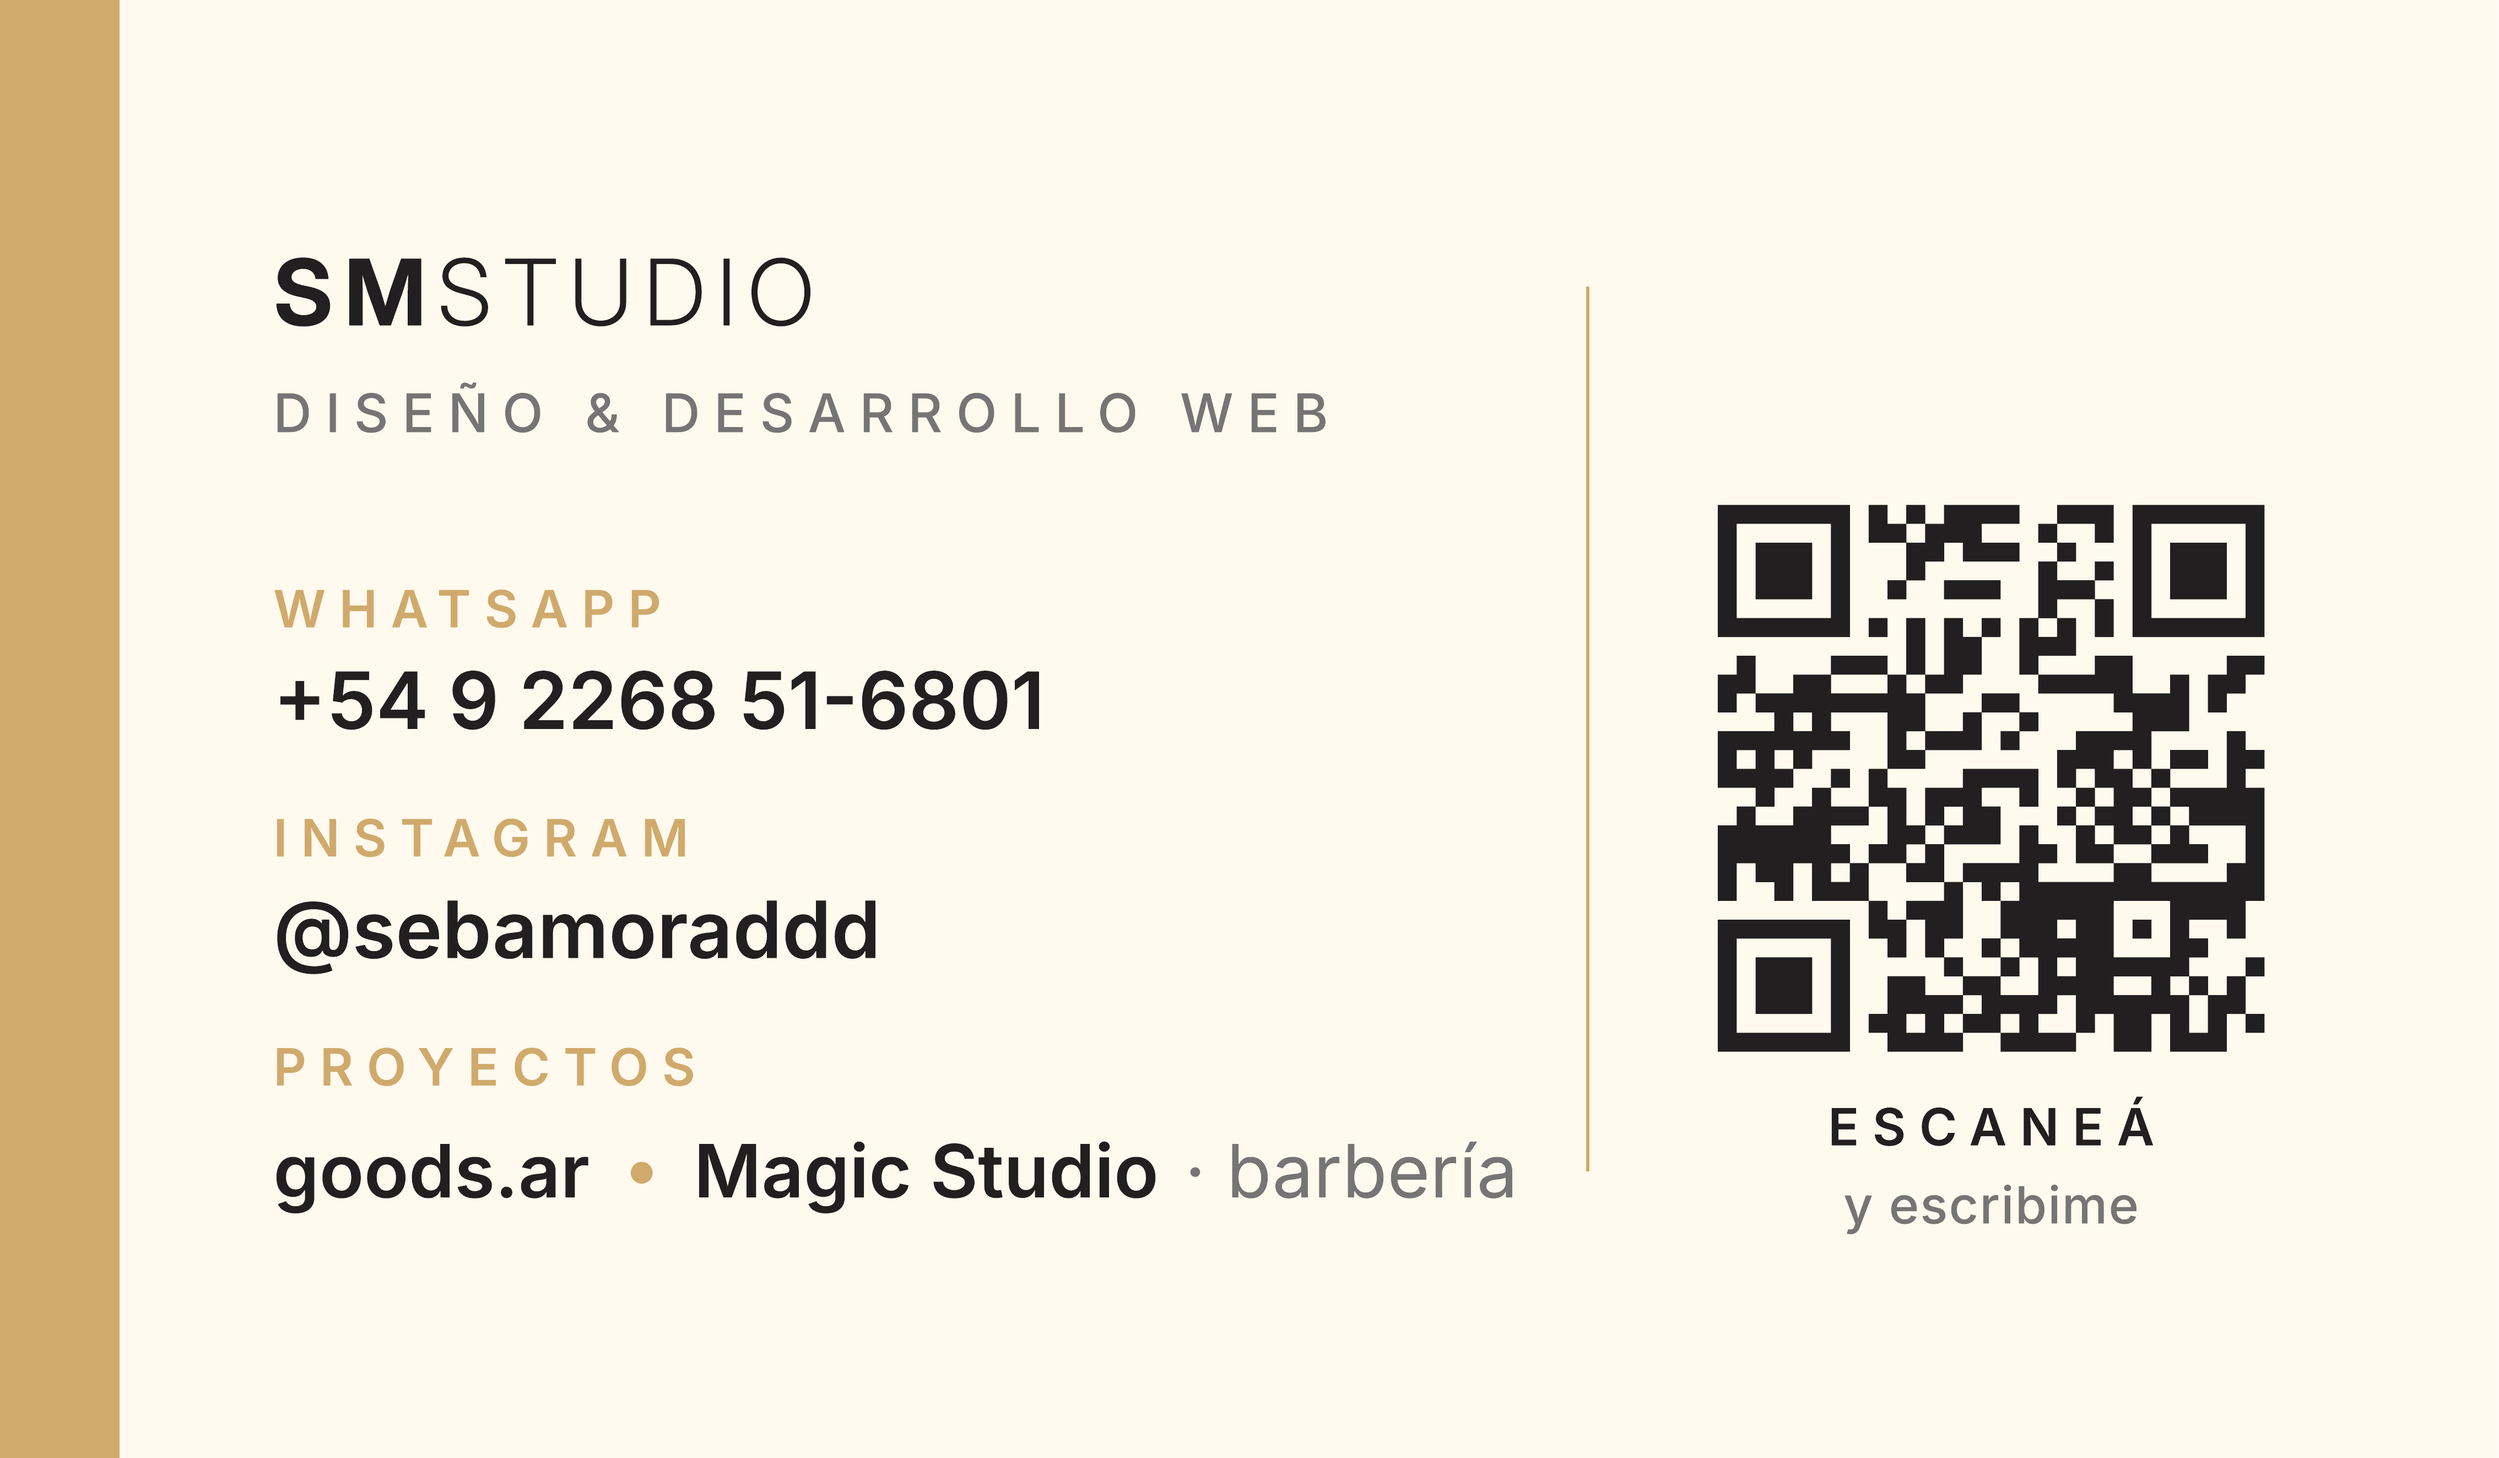
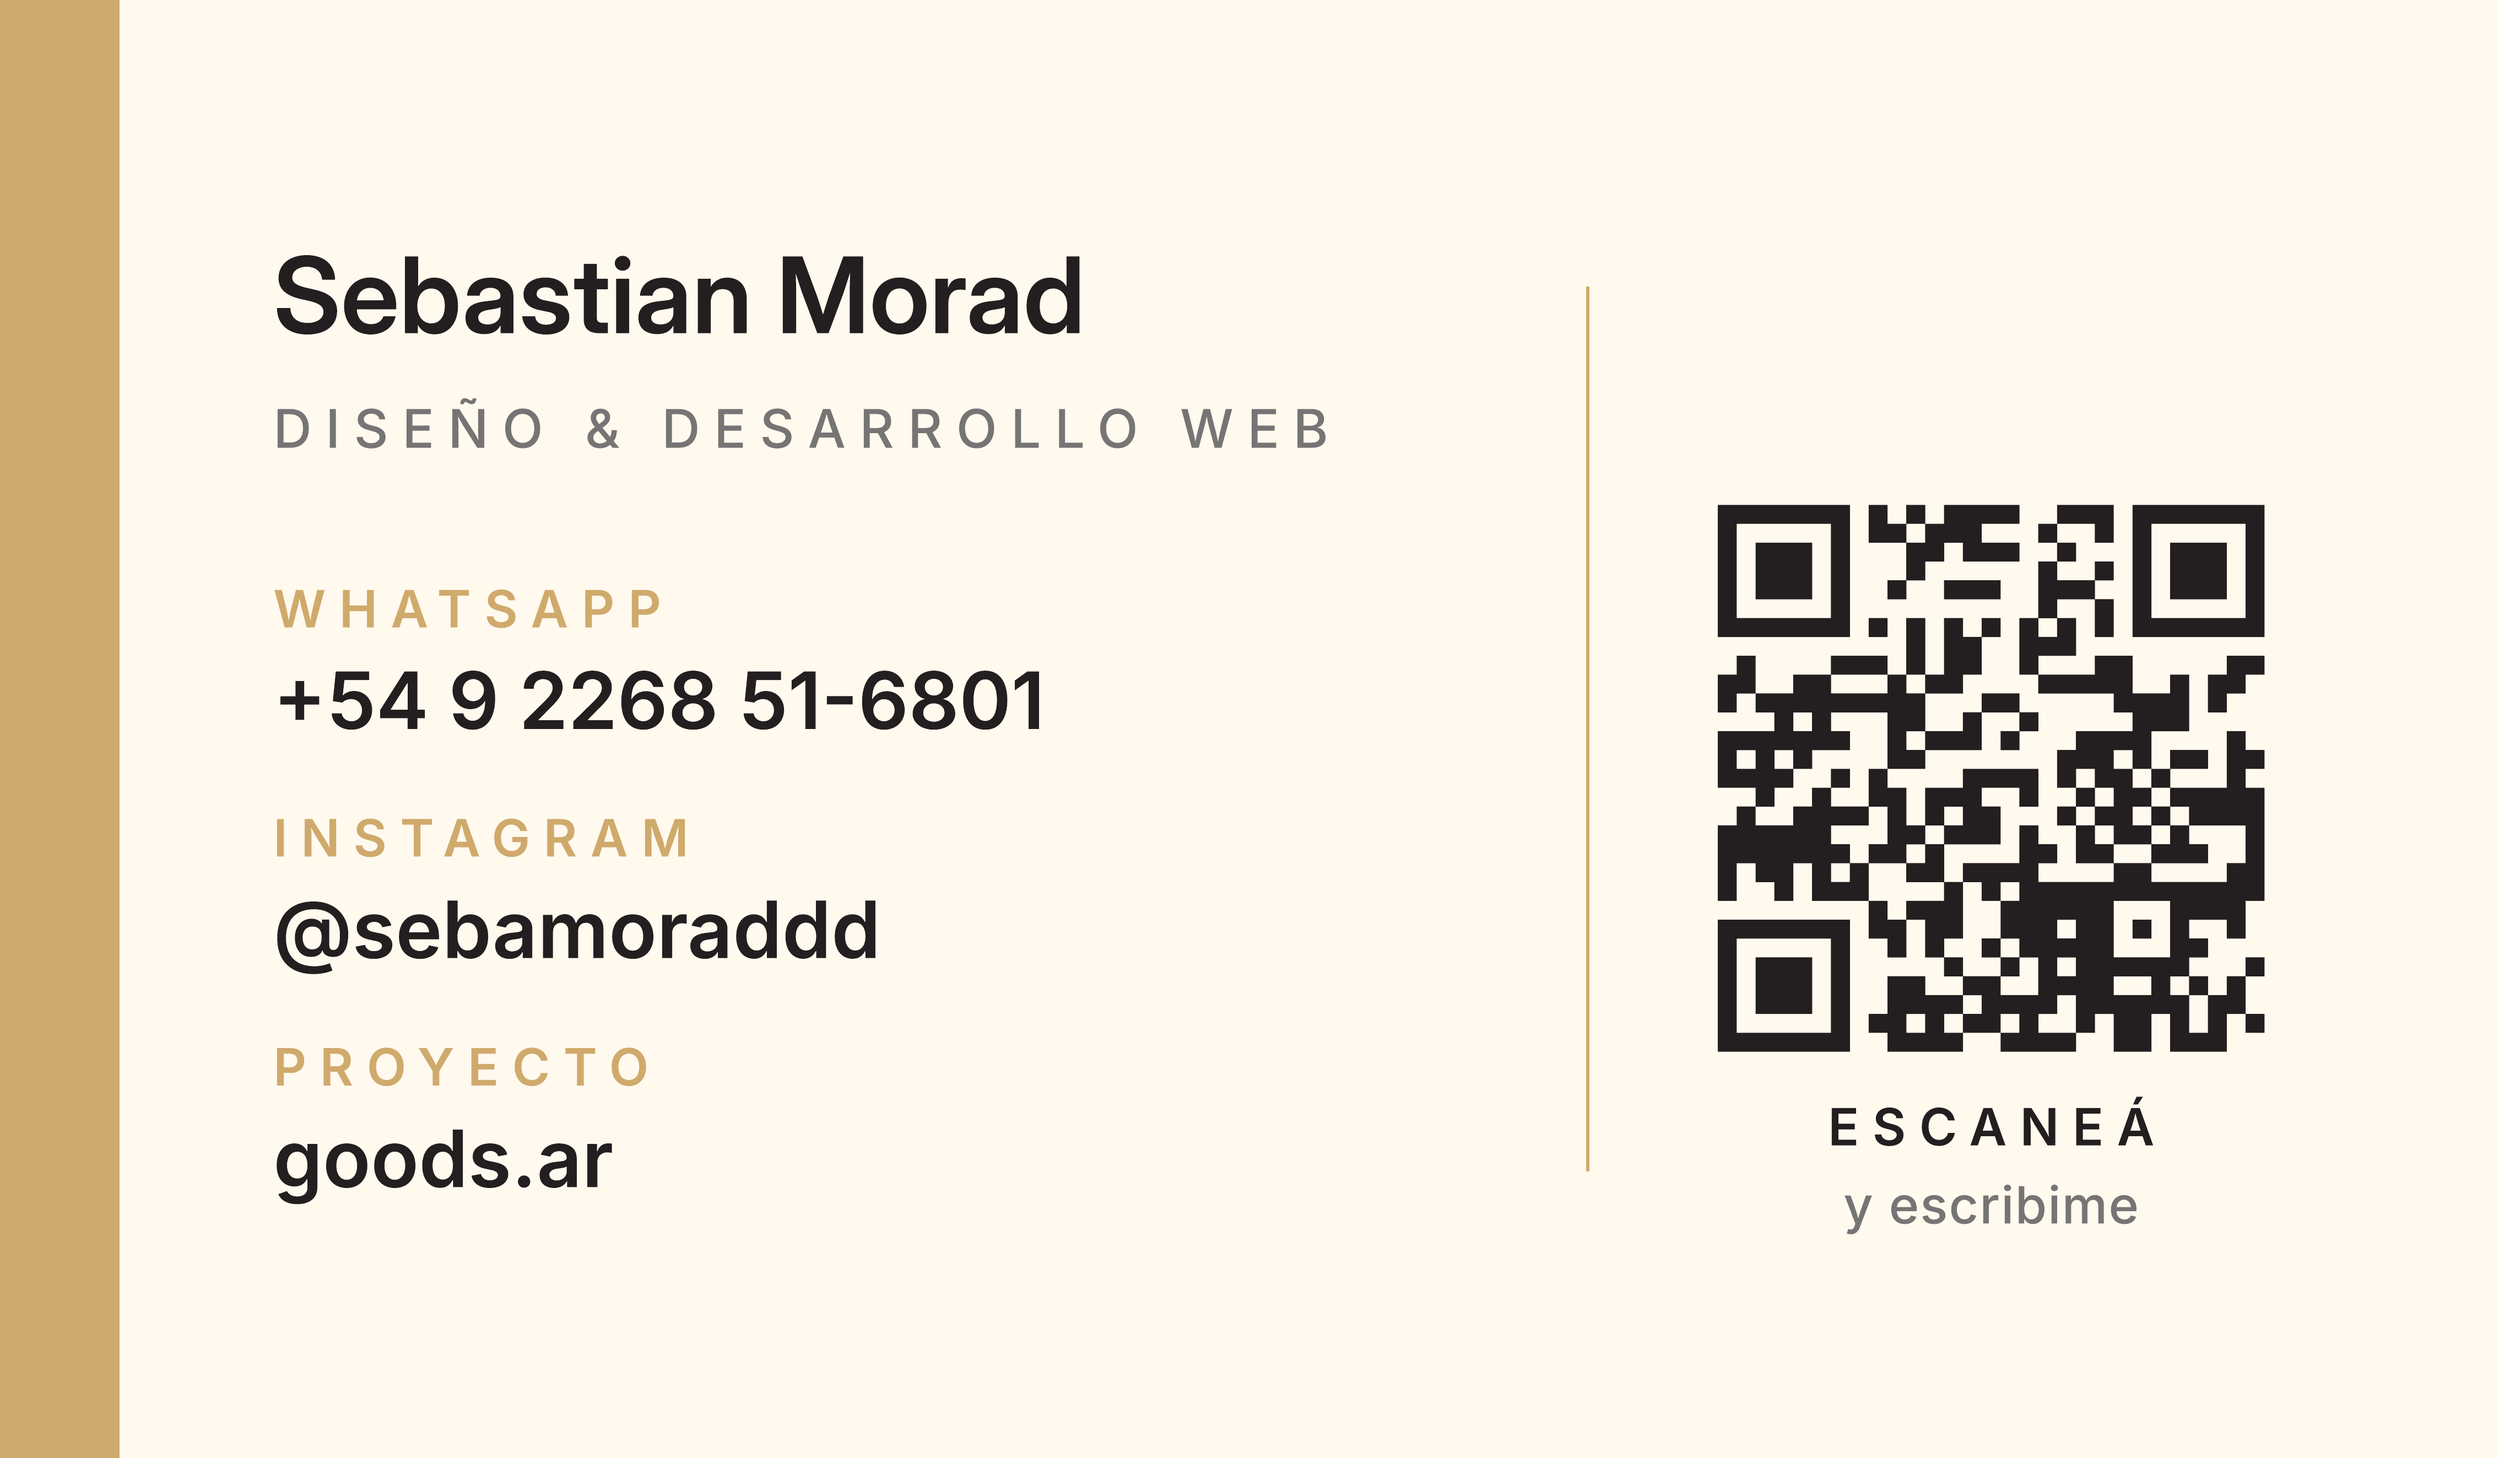
Tarjetas: agregar nombre y quitar Magic Studio del dorso
Claude-Session: https://claude.ai/code/session_01MhKtchW2wzC8RbjiRHHNGd

diff --git a/tarjetas/generar.py b/tarjetas/generar.py
@@ -29,6 +29,7 @@ MARK = 10                 # mm extra para marcas de corte
 TELEFONO = "+54 9 2268 51-6801"
 QR_URL = "https://wa.me/5492268516801"
 INSTAGRAM = "@sebamoraddd"
+NOMBRE = "Sebastian Morad"
 
 # Colores CMYK (0..1). Negro enriquecido sólo para fondos; texto chico en K puro.
 NEGRO_RICO = CMYKColor(0.60, 0.40, 0.40, 1.00)
@@ -167,11 +168,9 @@ def dorso(c):
     c.rect(-BLEED * mm, -BLEED * mm, (BLEED + 1.6) * mm, (H + 2 * BLEED) * mm, stroke=0, fill=1)
 
     x = 7.5
-    # marca
-    w_sm = ancho(F["display_bold"], "SM", 10, 120)
-    texto(c, F["display_bold"], "SM", x, H - 9.5, 10, NEGRO_K, 120)
-    texto(c, F["display_light"], "STUDIO", x + w_sm + 120 / 1000 * 10 / mm, H - 9.5, 10, NEGRO_K, 120)
-    texto(c, F["medium"], "DISEÑO & DESARROLLO WEB", x, H - 13.6, 5.8, GRIS, 260)
+    # nombre (la marca va en el frente)
+    texto(c, F["display_semibold"], NOMBRE, x, H - 9.8, 11.5, NEGRO_K, 0)
+    texto(c, F["medium"], "DISEÑO & DESARROLLO WEB", x, H - 14.2, 5.8, GRIS, 260)
 
     def bloque(y, etiqueta, valor, fuente="semibold", pt=8.6):
         texto(c, F["semibold"], etiqueta, x, y + 3.9, 5.6, CHAMPAGNE, 260)
@@ -180,13 +179,7 @@ def dorso(c):
     bloque(25.0, "WHATSAPP", TELEFONO)
     bloque(16.2, "INSTAGRAM", INSTAGRAM)
 
-    texto(c, F["semibold"], "PROYECTOS", x, 11.3, 5.6, CHAMPAGNE, 260)
-    w = texto(c, F["semibold"], "goods.ar", x, 7.0, 8.0, NEGRO_K)
-    c.setFillColor(CHAMPAGNE)
-    c.circle((x + w + 2.0) * mm, 7.95 * mm, 0.42 * mm, stroke=0, fill=1)
-    texto(c, F["semibold"], "Magic Studio", x + w + 4.0, 7.0, 8.0, NEGRO_K)
-    w2 = ancho(F["semibold"], "Magic Studio", 8.0)
-    texto(c, F["regular"], "· barbería", x + w + 4.0 + w2 + 1.0, 7.0, 8.0, GRIS)
+    bloque(7.4, "PROYECTO", "goods.ar")
 
     # divisor + QR
     lado = 21.0
@@ -257,6 +250,7 @@ def main():
     F.update(
         display_bold=Fuente("InterDisplay-Bold.otf"),
         display_light=Fuente("InterDisplay-Light.otf"),
+        display_semibold=Fuente("InterDisplay-SemiBold.otf"),
         regular=Fuente("Inter-Regular.otf"),
         medium=Fuente("Inter-Medium.otf"),
         semibold=Fuente("Inter-SemiBold.otf"),
